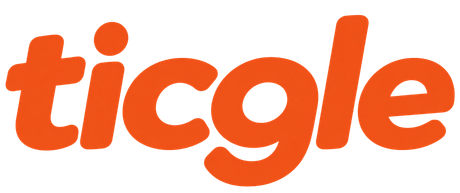
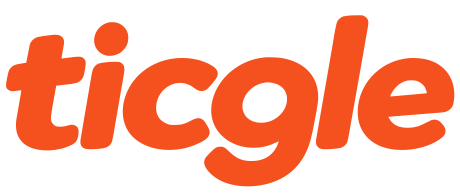
design: finish clean vector masters for approved Ticgle identity

diff --git a/alpha/src/components/TicgleBrand.tsx b/alpha/src/components/TicgleBrand.tsx
@@ -2,9 +2,9 @@ import './TicgleBrand.css';
 
 /** Approved A wordmark: rounded lowercase lettering with a gentle forward lean. */
 export default function TicgleWordmark({className=''}:{className?:string}){
- return <img className={`ticgle-wordmark ${className}`} src="/brand/ticgle-wordmark-a.png" width={460} height={193} alt="티끌 ticgle" draggable={false}/>;
+ return <img className={`ticgle-wordmark ${className}`} src="/brand/ticgle-wordmark-a.svg" width={460} height={193} alt="티끌 ticgle" draggable={false}/>;
 }
 
 export function TicgleAppIcon(){
- return <img className="ticgle-app-icon" src="/brand/ticgle-icon-a-192.png" width={48} height={48} alt="" aria-hidden="true" draggable={false}/>;
+ return <img className="ticgle-app-icon" src="/brand/ticgle-icon-a.svg" width={48} height={48} alt="" aria-hidden="true" draggable={false}/>;
 }

diff --git a/alpha/design/brand/README.md b/alpha/design/brand/README.md
@@ -1,8 +1,8 @@
 # ticgle — approved direction A
 
 Rounded, gently italic lowercase wordmark; lowercase t and detached speck app
-symbol. Source artwork was generated from the approved A board. Sources stay
-outside public; run `node scripts/generate-ticgle-icons.mjs` for deployment sizes.
+symbol. Source artwork was generated from the approved A board. Generated references stay outside public. Clean SVG masters in public/brand
+retain the approved silhouettes without raster specks. Run `node scripts/generate-ticgle-icons.mjs` for deployment sizes.
 
 UI accent: #F4511E. Small accent text uses #B83A15 in light mode (5.75:1 on white)
 and #FF9673 in dark mode (9.40:1 on #08080A). Existing user-created card palettes
